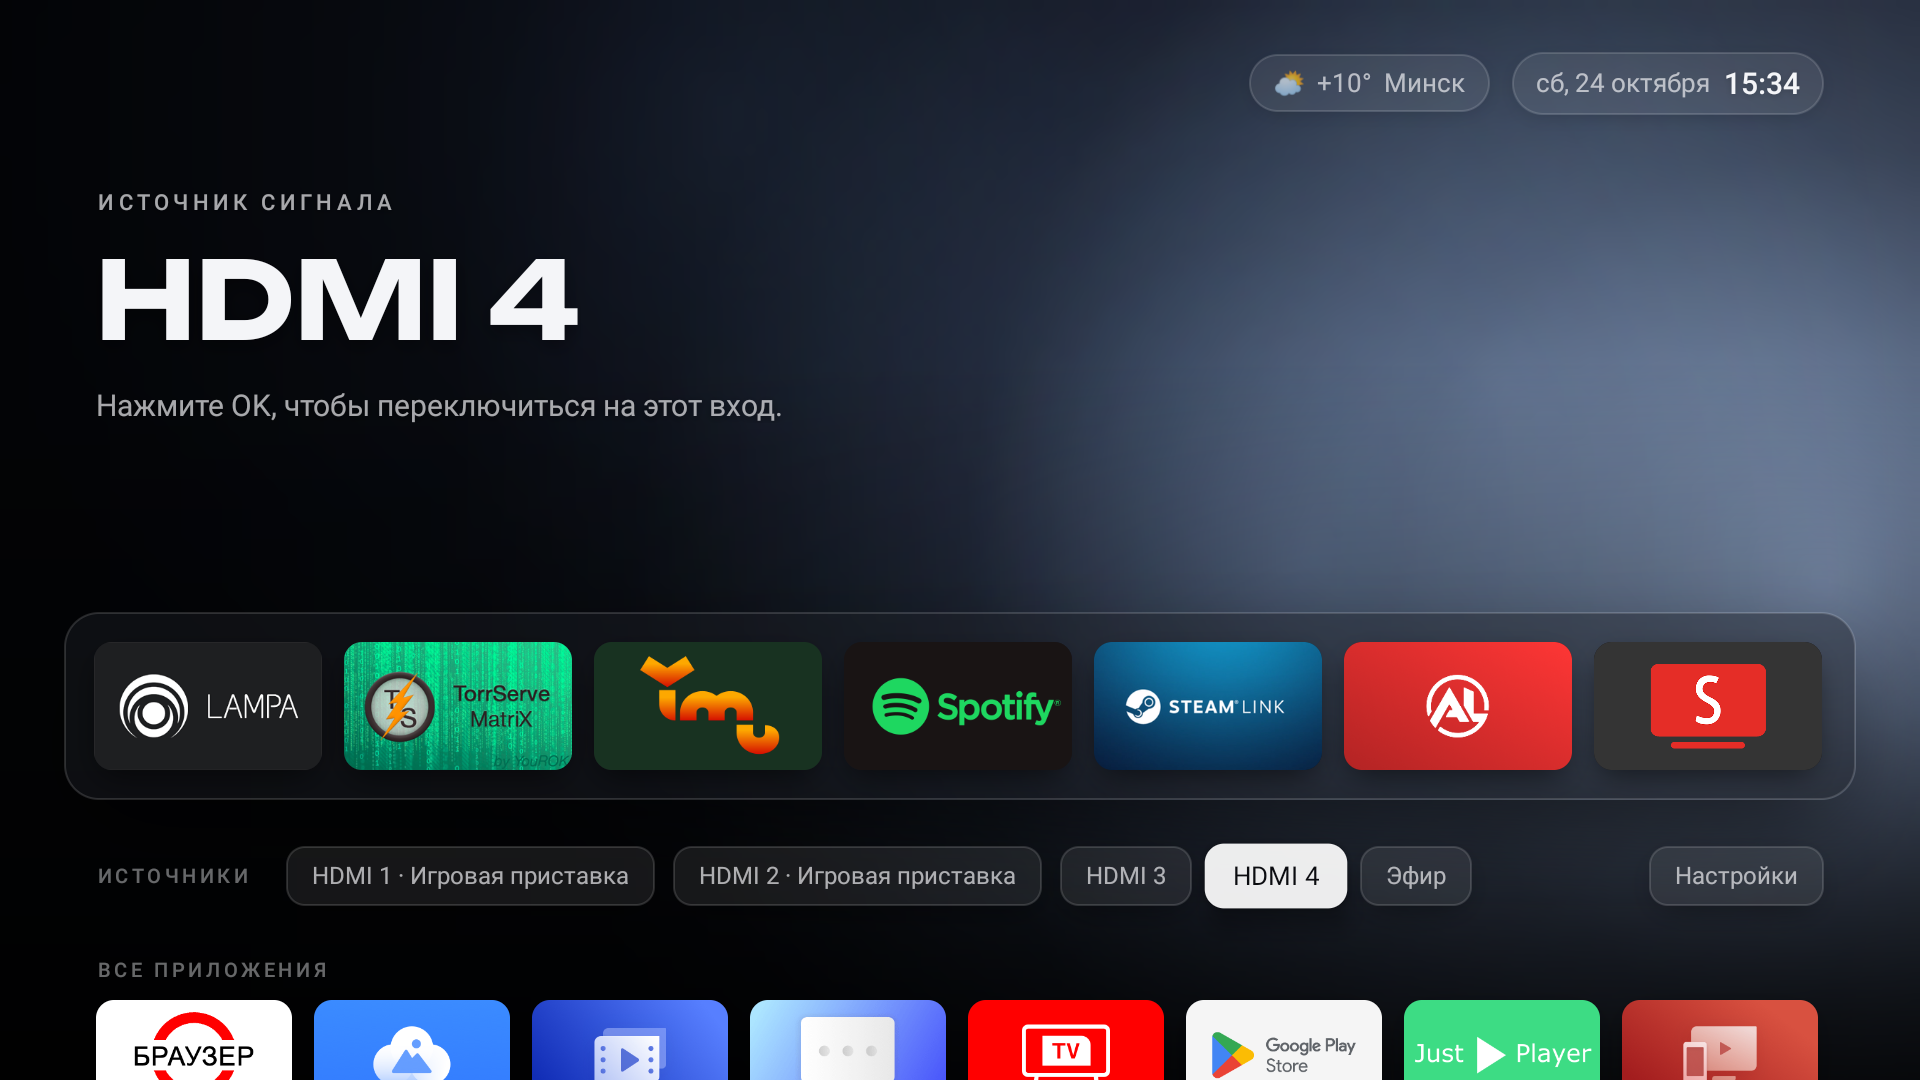
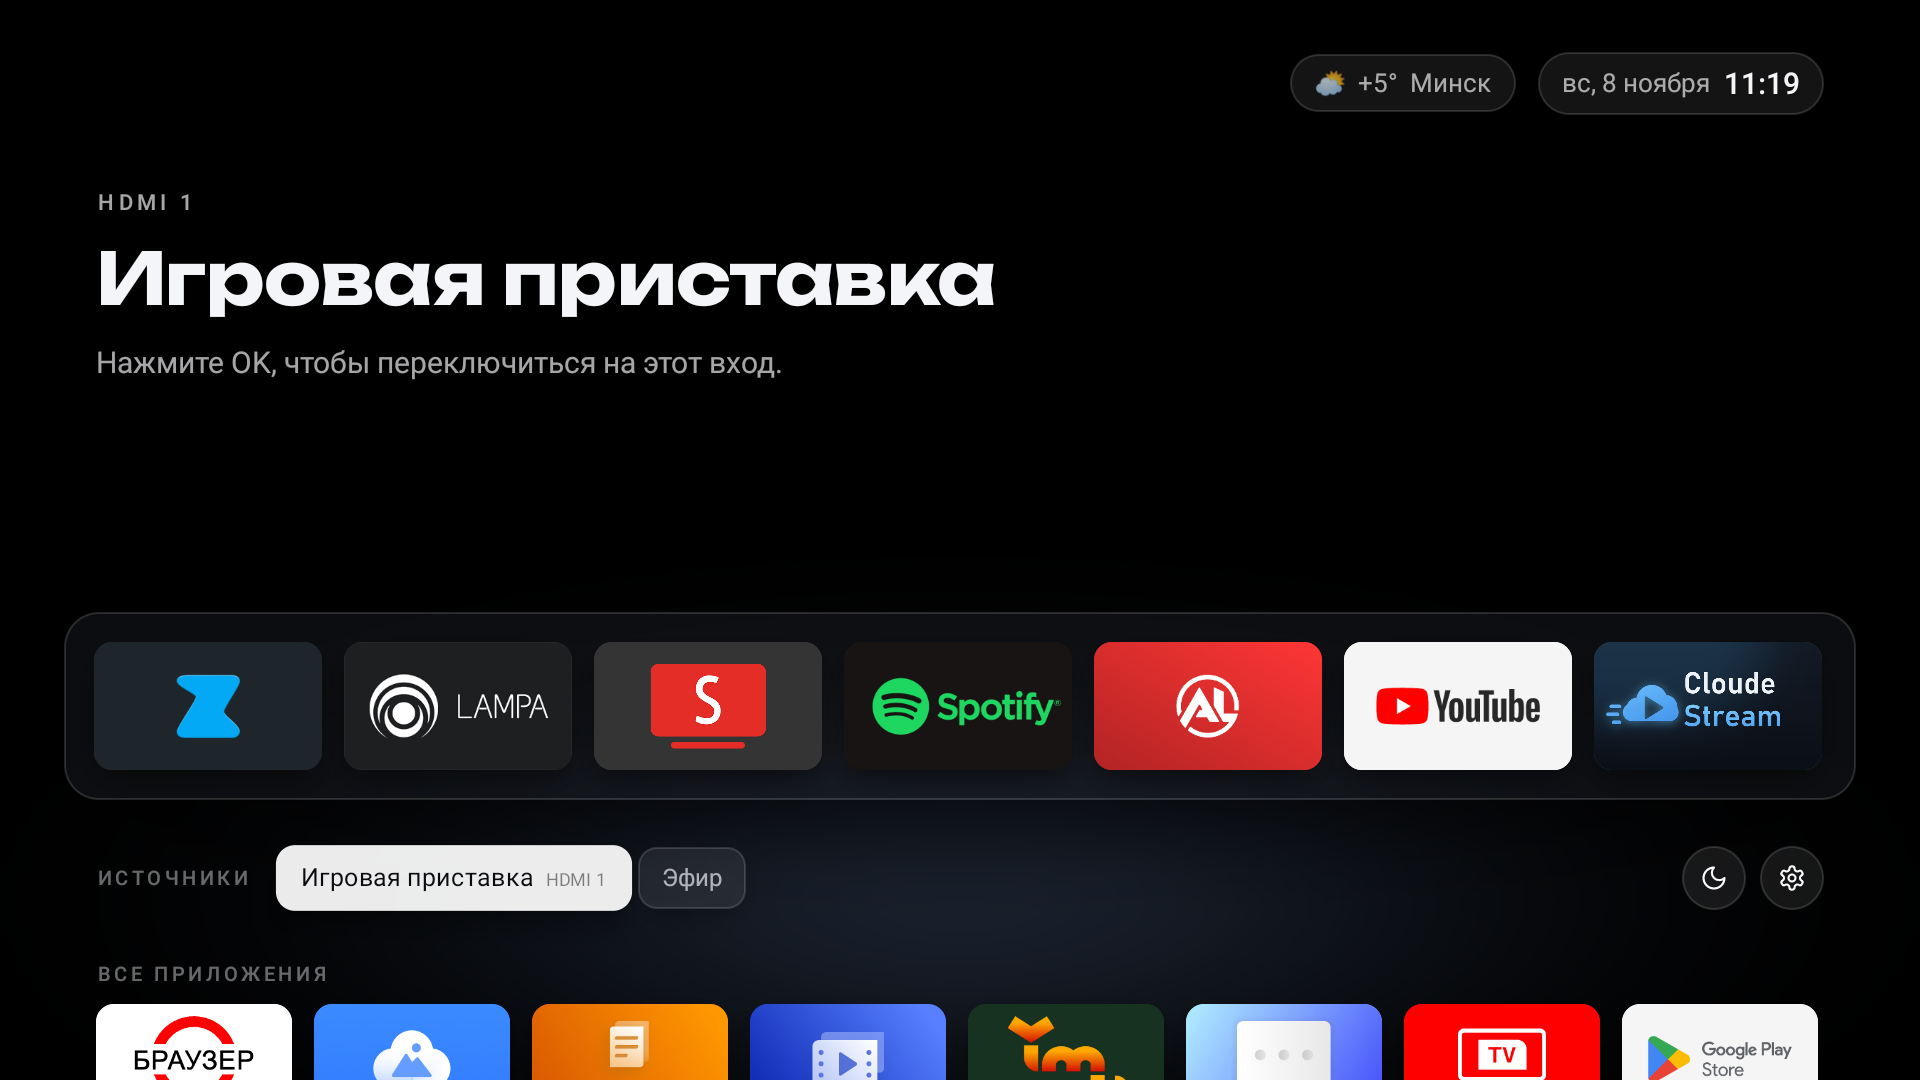
README и скриншоты для 1.1.0
Новые скрины: свечение под полкой, ряд источников с таймером и настройками,
шторка таймера сна, заставка с часами. Описание таймера, заставки и тестов.

diff --git a/README.md b/README.md
@@ -10,19 +10,23 @@
 
 ## Что внутри
 
-- **Лаунчер «Кинотеатр».** Живой фон подстраивается под цвет выбранного приложения, на плитках родные баннеры приложений. Есть избранное, все приложения, HDMI-входы, часы и погода.
+- **Лаунчер «Кинотеатр».** Чёрный фон с мягким свечением цвета выбранного приложения под полкой, на плитках родные баннеры приложений. Есть избранное, все приложения, HDMI-входы с названиями из меню телевизора, часы и погода.
+- **Таймер сна.** Кнопка ☾ в ряду источников: телевизор уйдёт в режим ожидания через 15 минут – 2 часа.
+- **Заставка с часами.** «Кинотеатр: часы» — крупное время, дата и погода на чёрном экране.
 - **Быстрый.** APK меньше 0,5 МБ, без рекламы и рекомендаций, ровные 60 к/с. Когда пульт не трогают, фон замирает и процессор не нагружается.
 - **Чистка.** Отключает рекламные ленты, телеметрию и ненужные службы (TCL, Google), ускоряет анимации, включает автоматическое время. Все изменения обратимы.
 - **Безопасно.** Перед изменениями сохраняет состояние телевизора, `restore.sh` возвращает всё как было.
 
 | | |
 |---|---|
-| ![Фокус на Vimu](docs/screenshots/02-focus-vimu.png) | ![Фокус на Spotify](docs/screenshots/03-focus-spotify.png) |
-| Фон и шапка подстраиваются под приложение | Мягкие тени, шрифт Unbounded |
+| ![Фокус на SmartTube](docs/screenshots/02-focus-smarttube.png) | ![Фокус на Spotify](docs/screenshots/03-focus-spotify.png) |
+| Свечение и шапка подстраиваются под приложение | Мягкие тени, шрифт Unbounded |
 | ![Источники](docs/screenshots/04-inputs.png) | ![Все приложения](docs/screenshots/05-all-apps.png) |
-| HDMI-входы с твоими названиями, эфир, настройки | Все приложения: часы и шапка уходят, чтобы не мешать |
+| HDMI-входы с твоими названиями, эфир, таймер сна и настройки | Все приложения: часы и шапка уходят, чтобы не мешать |
 | ![Меню](docs/screenshots/06-context-menu.png) | ![Перемещение](docs/screenshots/07-move.png) |
 | Долгое OK — меню приложения | Порядок избранного меняется с пульта |
+| ![Таймер сна](docs/screenshots/08-sleep-timer.png) | ![Заставка](docs/screenshots/09-screensaver.png) |
+| Таймер сна: выключить через 15 минут – 2 часа | Заставка с часами, датой и погодой |
 
 ## Какие телевизоры подходят
 
@@ -75,7 +79,9 @@ sh tv-setup/setup.sh 192.168.1.50 "Санкт-Петербург"
 3. отключит рекламу и телеметрию из `packages.txt` и пропустит то, чего на телевизоре нет;
 4. поставит анимации 0.5 и автоматическое время;
 5. установит лаунчер и найдёт город для погоды;
-6. сделает «Кинотеатр» главным экраном. Если системный лаунчер стоит выше по приоритету, скрипт спросит, отключить ли его. Ответь `y`, иначе кнопка «Домой» будет открывать системный.
+6. сделает «Кинотеатр» главным экраном. Если системный лаунчер стоит выше по приоритету, скрипт спросит, отключить ли его. Ответь `y`, иначе кнопка «Домой» будет открывать системный;
+7. предложит поставить заставку «Кинотеатр: часы»;
+8. предложит включить таймер сна. Если телевизор не поддерживает «администратора устройства» (как TCL), таймер работает через службу «Кинотеатр: таймер сна» в «Специальных возможностях». Она ничего не читает с экрана, только переводит телевизор в режим ожидания. Скрипт включит её и выдаст лаунчеру право включать её обратно, если прошивка выключит её после перезагрузки.
 
 ### 5. После установки
 
@@ -95,7 +101,8 @@ sh tv-setup/restore.sh
 |---|---|
 | OK | Открыть приложение, переключиться на HDMI |
 | Долгое OK на плитке | Меню: открыть, переместить, добавить в избранное или убрать оттуда, о приложении (там же можно удалить приложение) |
-| Вниз | Источники (HDMI, эфир, настройки), ниже — все приложения |
+| Вниз | Источники (HDMI, эфир, ☾ таймер сна, ⚙ настройки), ниже — все приложения |
+| ☾ | Таймер сна. Пока он идёт, на кнопке видно, сколько осталось. «Выкл» отменяет |
 | Домой | Вернуться к первому приложению избранного |
 
 В избранном до 7 приложений. Новые приложения появляются в «Все приложения» сами, с родными баннерами.
@@ -124,7 +131,7 @@ sh tv-setup/restore.sh
 TV=192.168.1.50:5555 sh kinoteatr-launcher/build.sh install
 ```
 
-Тесты прямо на телевизоре: около 60 проверок навигации, меню, избранного, положения экрана, памяти и плавности, ~12 минут. **Тесты сбрасывают избранное**, это стоит учитывать.
+Тесты прямо на телевизоре: около 80 проверок навигации, меню, избранного, входов, таймера сна (включая то, что отменённый таймер не выключает телевизор), заставки, памяти и скорости, ~15 минут. Избранное, город и разрешение таймера тест запоминает в начале и возвращает в конце. Пока идут тесты, пульт лучше не трогать.
 
 ```bash
 TV=192.168.1.50:5555 sh kinoteatr-launcher/test.sh
@@ -132,6 +139,6 @@ TV=192.168.1.50:5555 sh kinoteatr-launcher/test.sh
 
 `debug.keystore` в репозиторий не попадает. Обновление ставится поверх старой версии только с тем же ключом подписи. Если собрать с новым ключом, лаунчер придётся удалить и поставить заново, а избранное сбросится.
 
-Шрифт заголовков — [Unbounded](https://fonts.google.com/specimen/Unbounded), лицензия SIL Open Font License 1.1.
+Шрифты — [Unbounded](https://fonts.google.com/specimen/Unbounded) (заголовки) и [Jost](https://fonts.google.com/specimen/Jost) (часы заставки), лицензия SIL Open Font License 1.1.
 
 Лицензия проекта — [MIT](LICENSE).
